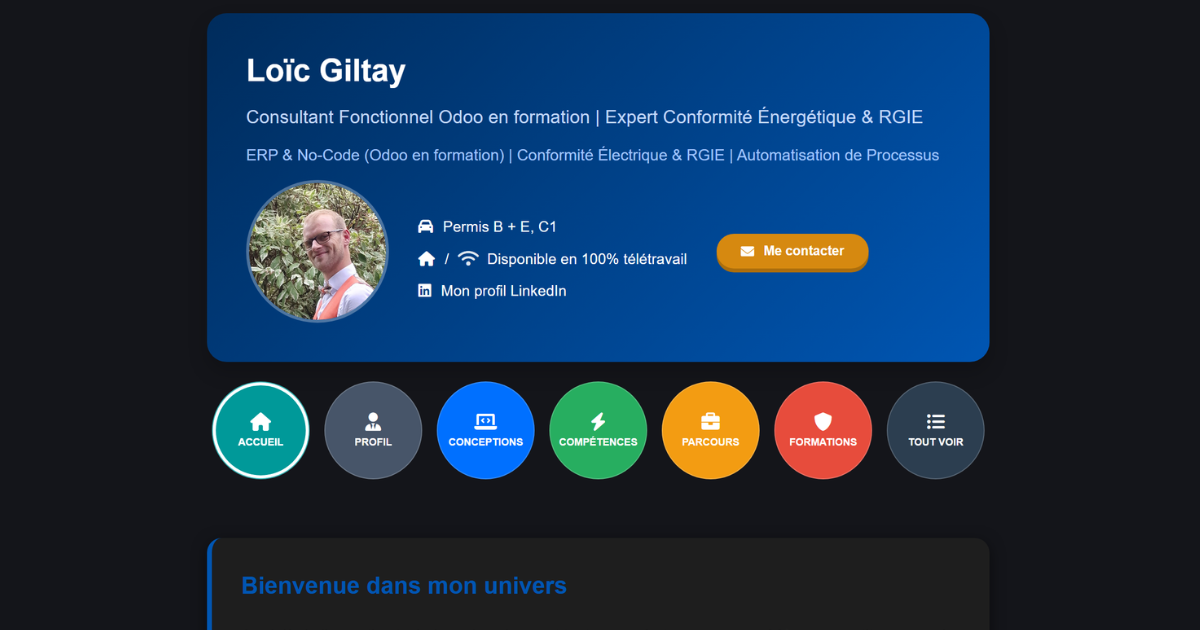
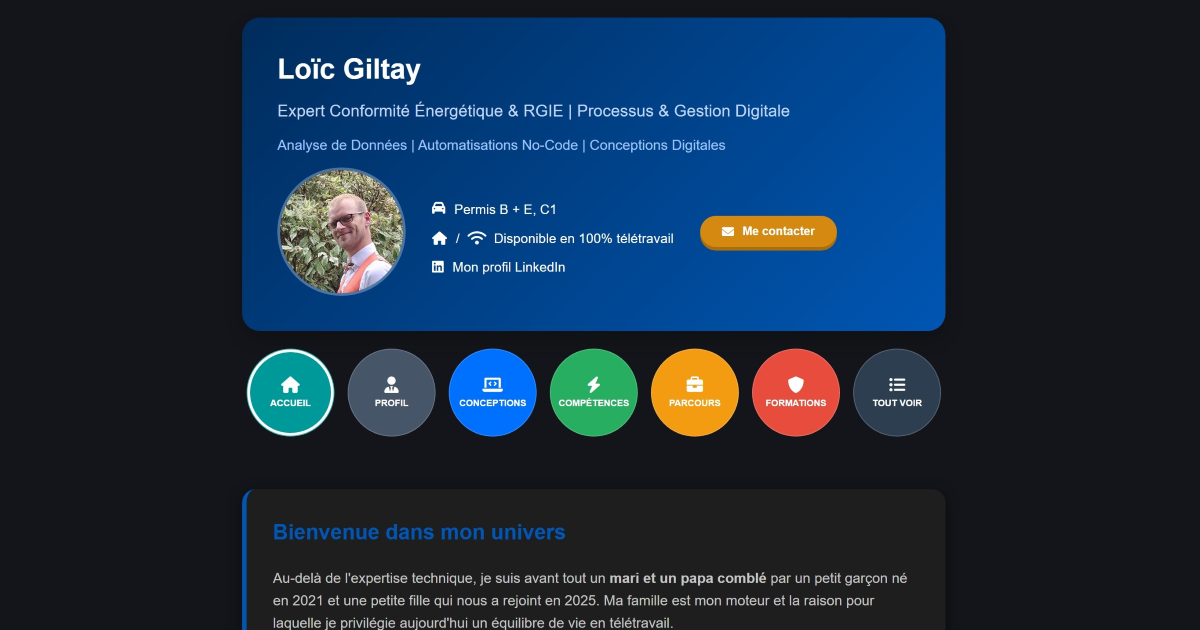
modification texte et preview

Changed region(s): [[0.1542, 0.0, 0.8325, 1.0]]

diff --git a/index.html b/index.html
@@ -32,12 +32,10 @@
       <div class="top-header">
         <h1>Loïc Giltay</h1>
         <h3>
-          Consultant Fonctionnel Odoo en formation | Expert Conformité
-          Énergétique & RGIE
+          Expert Conformité Énergétique & RGIE | Processus & Gestion Digitale
         </h3>
         <p>
-          ERP & No-Code (Odoo en formation) | Conformité Électrique & RGIE |
-          Automatisation de Processus
+          Analyse de Données | Automatisations No-Code | Conceptions Digitales
         </p>
       </div>
       <div class="middle-header">
@@ -152,18 +150,17 @@
       <section id="profile" class="card-bubble">
         <h2>EXPERTISE & NUMÉRIQUE</h2>
         <p>
-          Expert technique rigoureux avec une solide
-          <strong>expérience de 18 ans</strong> dans le secteur de l'énergie en
-          Belgique. Spécialiste de la
-          <strong>conformité réglementaire (RGIE)</strong> et des procédures de
-          <strong>certification (Brugel)</strong>, je maîtrise l'ensemble de la
-          chaîne de validation des installations photovoltaïques.
+          Avec <strong>18 ans d'expérience</strong> dans le secteur de
+          l'énergie, de l'électricien de chantier à l'expert technique et
+          référent réglementaire, j'ai bâti mon parcours sur la rigueur
+          technique et la gestion de processus complexes (conformité
+          <strong>RGIE/Brugel</strong>, gestion d'équipe).
         </p>
         <p>
           Doté d'une forte affinité pour l'informatique et les outils de gestion
-          numérique. Je me forme aujourd'hui sur Odoo et les solutions No-Code
-          pour évoluer vers la consultance ERP — en apportant ce que peu de
-          consultants ont : une vraie expérience du terrain.
+          numérique, j'intègre activement les nouvelles technologies à mon
+          expertise métier pour optimiser la gestion opérationnelle et le flux
+          de données.
         </p>
       </section>
       <hr />
